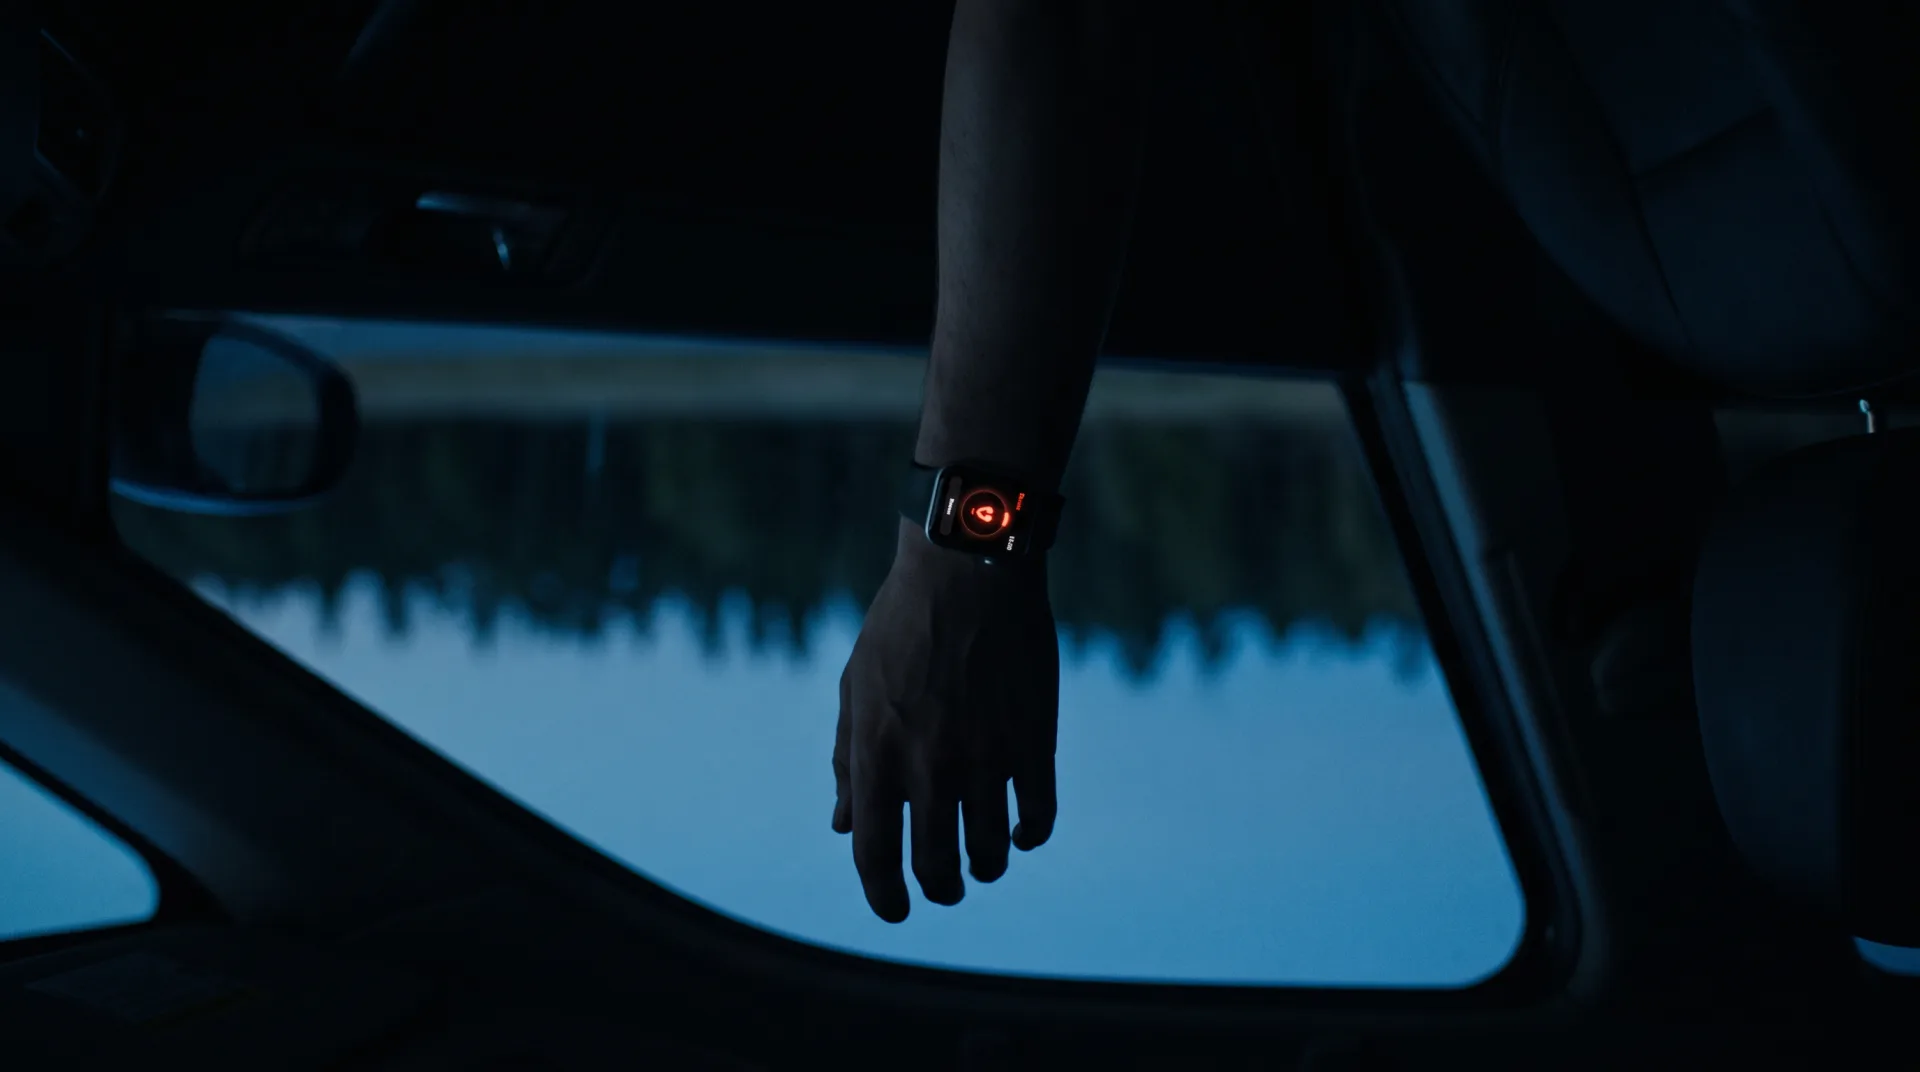
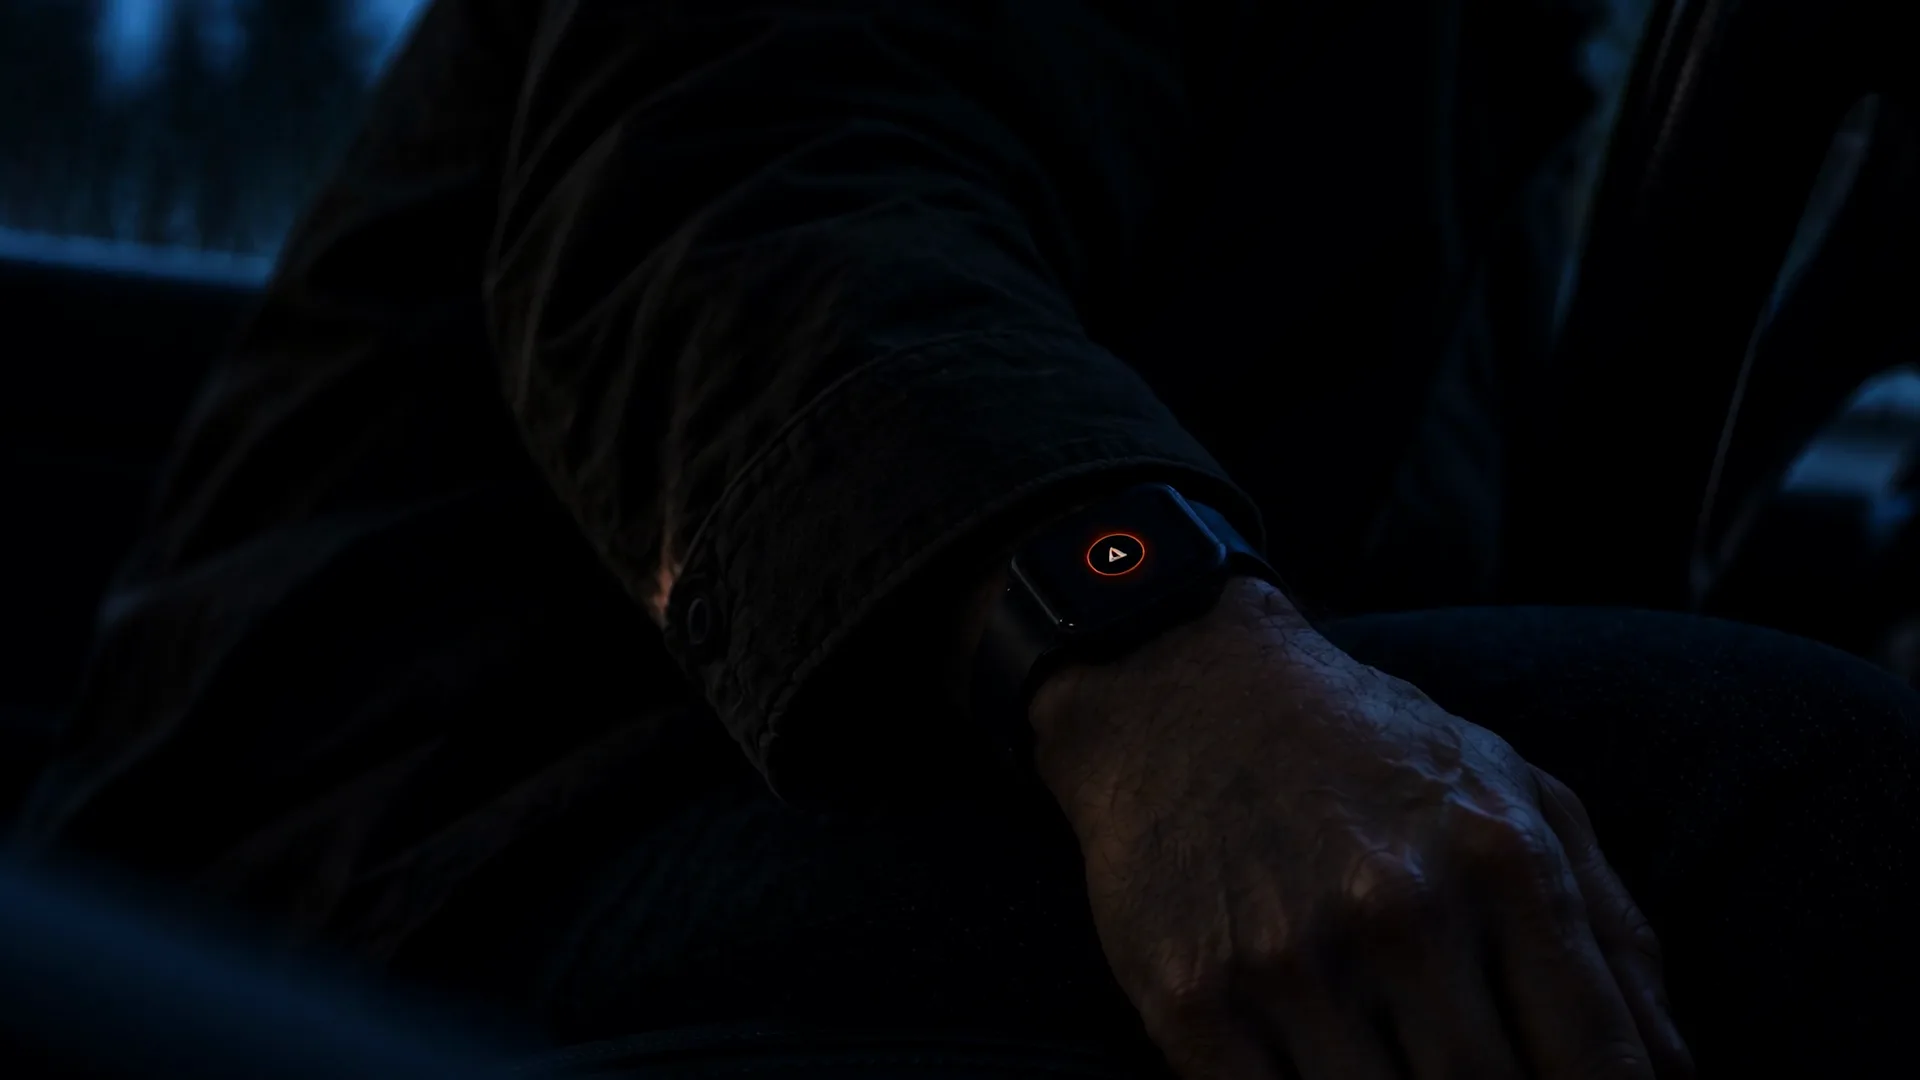
Film page: watch comparison now uses the frame that is actually in the film

diff --git a/projects/the-room-thats-ready.html b/projects/the-room-thats-ready.html
@@ -188,8 +188,8 @@
             <figcaption>The watch, first pass. A hero prop that tells the audience what to feel.</figcaption>
           </figure>
           <figure>
-            <img src="../images/room/watch-after.webp" alt="The watch in the film: a hand hangs limp beside the door in blue pre-dawn light, the watch face a small red mark." width="1920" height="1080" loading="lazy">
-            <figcaption>The watch in the film. A hand, and one small red light. The audience finds it.</figcaption>
+            <img src="../images/room/watch-after.webp" alt="The watch in the film: a hand rests slack on his lap in the dark, the watch face a single small red mark." width="1920" height="1080" loading="lazy">
+            <figcaption>The watch in the film. A slack hand, and one small red light. The audience finds it.</figcaption>
           </figure>
         </div>
       </section>
